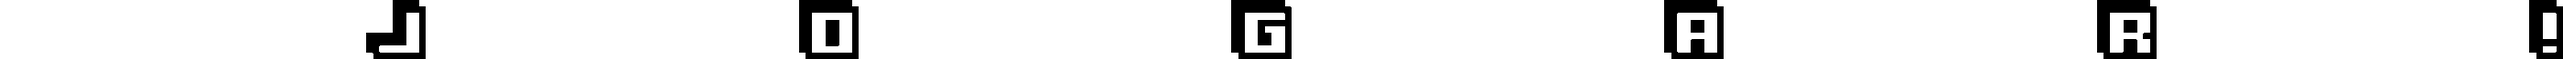
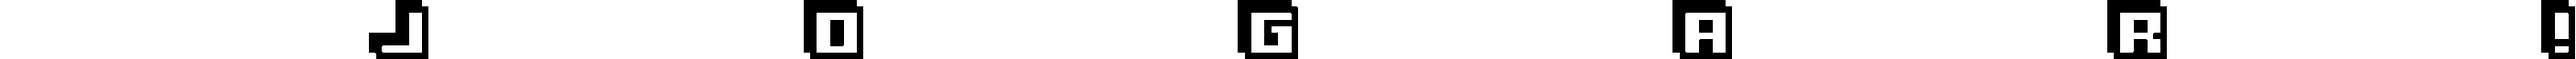
Corrigir limites de spritesheet

Changed region(s): [[0.9943, 0.2154, 1.0, 0.6462], [0.9943, 0.8, 1.0, 0.8923]]

diff --git a/index.js b/index.js
@@ -102,7 +102,7 @@ function preload() {
     this.load.image(jogo.qrcode.nome, jogo.qrcode.arquivo);
   });
   this.load.spritesheet("jogar", "./assets/jogar.png", {
-    frameWidth: 400,
+    frameWidth: 402,
     frameHeight: 65,
   });
   this.load.image("fechar", "./assets/fechar.png");
